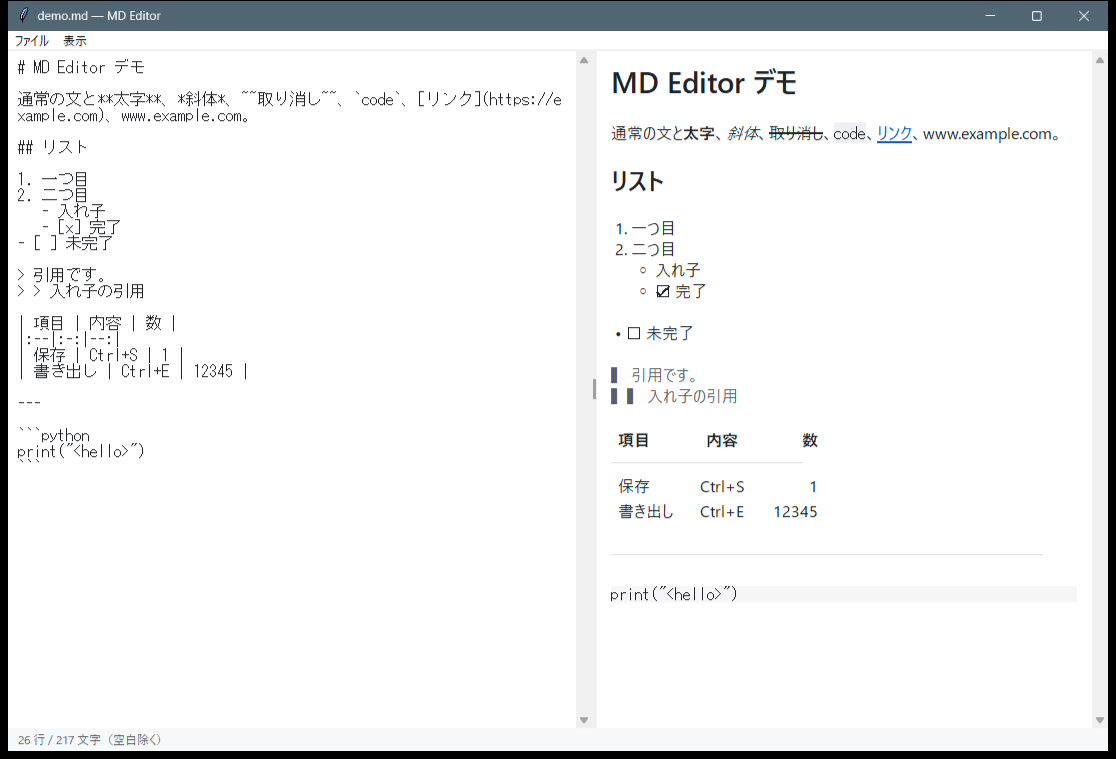
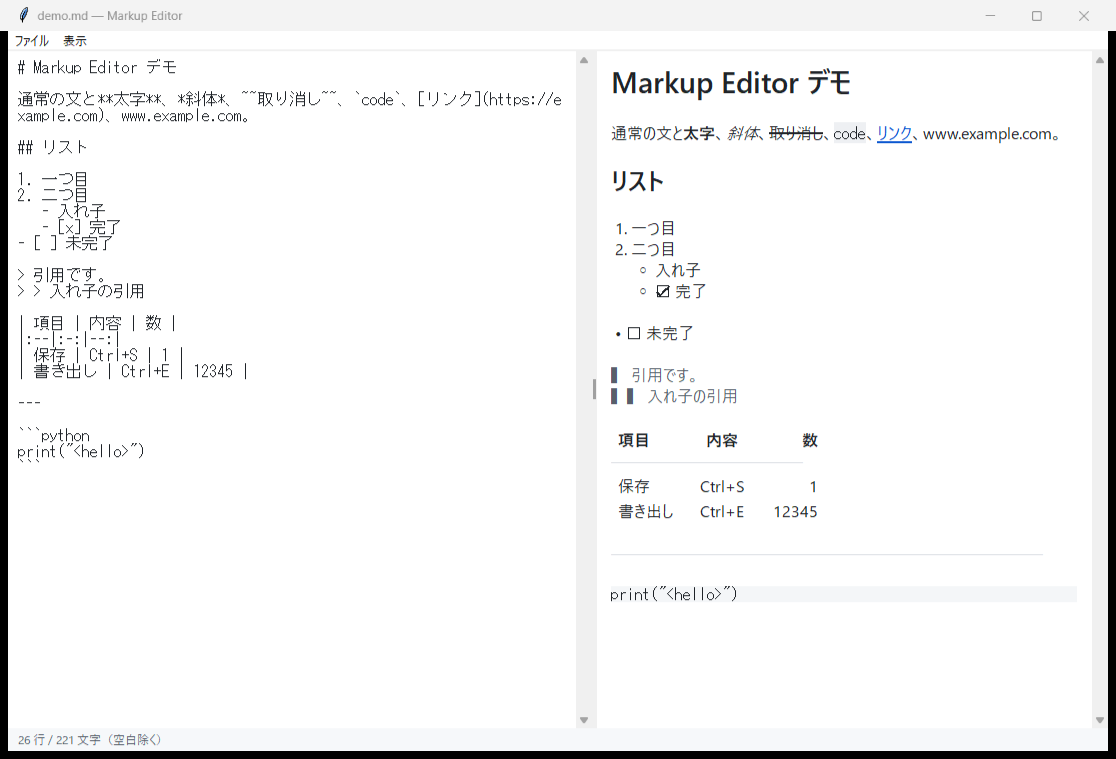
Rename the app to Markup Editor now that it handles Markdown and Org
- md_editor.py -> markup_editor.py; app name "MD Editor" -> "Markup Editor"
- settings move to ~/.markup-editor/; the old ~/.md-editor/state.json is
  read (never written) until the new file exists, so drafts carry over
- retake the README screenshots under the new name and add an Org one
- README / AGENTS.md updated, with a naming policy

Changed region(s): [[0.0, 0.0, 1.0, 0.0909], [0.5484, 0.0909, 0.7616, 0.1515]]

diff --git a/markup_editor.py b/markup_editor.py
@@ -1,12 +1,12 @@
 #!/usr/bin/env python3
-"""MD Editor (Python / tkinter 版)。
+"""Markup Editor (Python / tkinter 版)。
 
 Windows / macOS / Linux で、Python 3.8 以上の標準ライブラリだけで動く
 Markdown / Org エディタ。左で書くと右のプレビューにすぐ反映される。
 ファイル名が .org なら Org として、それ以外は Markdown として解釈する
 （Org は編集だけで、HTML への書き出しは Markdown のみ）。
 
-    python md_editor.py [ファイル.md | ファイル.org]
+    python markup_editor.py [ファイル.md | ファイル.org]
 """
 import json
 import re
@@ -22,8 +22,20 @@ from tkinter import filedialog, messagebox, ttk
 from mdparser import export_html, md_to_html
 from orgparser import org_to_html
 
-APP = "MD Editor"
-SAMPLE = """# MD Editor
+APP = "Markup Editor"
+
+
+def default_state_path():
+    """下書き・テーマなどの保存先。どの OS でも、ホームの下の同じ相対パス。"""
+    return Path.home() / ".markup-editor" / "state.json"
+
+
+def legacy_state_path():
+    """旧名（MD Editor）の保存先。引き継ぎの読み込みだけに使う。"""
+    return Path.home() / ".md-editor" / "state.json"
+
+
+SAMPLE = """# Markup Editor
 
 左で書くと右にすぐ反映されます。
 
@@ -296,8 +308,10 @@ class Renderer(HTMLParser):
 class App:
     def __init__(self, root, path=None, state_path=None):
         self.root = root
-        self.state_path = Path(state_path) if state_path else (
-            Path.home() / ".md-editor" / "state.json")
+        self.state_path = Path(state_path) if state_path else \
+            default_state_path()
+        # 旧名（MD Editor）の保存先。新しい保存先がまだ無いときだけ、読み込みに使う
+        self.legacy_state_path = None if state_path else legacy_state_path()
         self.mod = "Command" if sys.platform == "darwin" else "Control"
         self.mod_label = "⌘" if sys.platform == "darwin" else "Ctrl+"
         self.path = None
@@ -352,8 +366,11 @@ class App:
 
     # --- 状態の保存 -----------------------------------------------
     def read_state(self):
+        path = self.state_path
+        if not path.exists() and self.legacy_state_path:
+            path = self.legacy_state_path  # 書くのは常に新しい保存先
         try:
-            return json.loads(self.state_path.read_text(encoding="utf-8"))
+            return json.loads(path.read_text(encoding="utf-8"))
         except (OSError, ValueError):
             return {}
 

diff --git a/test_gui.py b/test_gui.py
@@ -1,4 +1,4 @@
-"""md_editor.py の GUI テスト。実際に tkinter のウィンドウを開いて確認する。
+"""markup_editor.py の GUI テスト。実際に tkinter のウィンドウを開いて確認する。
 
 画面を開けない環境（DISPLAY のない Linux など）では、全体をスキップする。
 ダイアログは差し替えるので、人の操作は要らない。
@@ -10,7 +10,7 @@ import unittest
 from pathlib import Path
 from unittest import mock
 
-import md_editor as m
+import markup_editor as m
 
 
 def _has_display():
@@ -416,6 +416,34 @@ class GuiTest(unittest.TestCase):
     def test_state_write_failure_is_ignored(self):
         self.app.state_path = self.dir  # ディレクトリには書けない
         self.app.write_state()  # 例外にならないこと
+
+    def test_state_location_and_legacy_migration(self):
+        home = self.dir / "home"
+        old = home / ".md-editor" / "state.json"
+        new = home / ".markup-editor" / "state.json"
+        old.parent.mkdir(parents=True)
+        old.write_text('{"theme": "dark", "size": 14}', encoding="utf-8")
+        with mock.patch.object(m.Path, "home", return_value=home):
+            self.assertEqual(m.default_state_path(), new)
+            for w in self.root.winfo_children():
+                w.destroy()
+            app = m.App(self.root)  # state_path を渡さない = 実際の保存先
+            self.apps.append(app)
+            self.root.update()
+            # 新しい保存先がまだ無いので、旧名の保存先から引き継ぐ
+            self.assertEqual((app.theme, app.size), ("dark", 14))
+            self.assertFalse(new.exists())
+            app.write_state()
+            # 書くのは新しい保存先だけ。旧名のファイルは触らない
+            self.assertTrue(new.exists())
+            self.assertIn('"dark"', old.read_text(encoding="utf-8"))
+            # 新しい保存先ができたら、そちらを優先する
+            new.write_text('{"theme": "light", "size": 10}', encoding="utf-8")
+            for w in self.root.winfo_children():
+                w.destroy()
+            app2 = m.App(self.root)
+            self.apps.append(app2)
+            self.assertEqual((app2.theme, app2.size), ("light", 10))
 
 
 if __name__ == "__main__":

diff --git a/AGENTS.md b/AGENTS.md
@@ -1,6 +1,6 @@
 # AGENTS.md
 
-`md_editor.py`、`mdparser.py`、`orgparser.py` を改修するエージェント向けの指示書。
+`markup_editor.py`、`mdparser.py`、`orgparser.py` を改修するエージェント向けの指示書。
 
 ## 目的
 
@@ -20,15 +20,17 @@ Windows / macOS / Linux のどれでも動く、Markdown と Org の閲覧・編
 |---|---|
 | `mdparser.py` | `md_to_html(src)`、`export_html(title, src)`。Markdown → HTML。`esc()` `safe_url()` `trim_url()` は Org も使う |
 | `orgparser.py` | `org_to_html(src)`。Org → HTML（部分対応）。出す HTML の形は `mdparser.py` に合わせる |
-| `md_editor.py` | tkinter のエディタ本体。`Renderer` が HTML を Text ウィジェットに描き、`App` が UI・ファイル操作・自動保存を持つ。`App.to_html()` が拡張子で Markdown と Org を切り替える |
+| `markup_editor.py` | tkinter のエディタ本体。`Renderer` が HTML を Text ウィジェットに描き、`App` が UI・ファイル操作・自動保存を持つ。`App.to_html()` が拡張子で Markdown と Org を切り替える |
 | `test_mdparser.py` | Markdown パーサーの単体テスト |
 | `test_orgparser.py` | Org パーサーの単体テスト |
 | `test_gui.py` | GUI のテスト（編集、ショートカット、保存、Org の切り替え、描画の堅牢性など） |
 
+- 名前の方針：アプリ名は「Markup Editor」。Markdown と Org の両方（今後増える軽量マークアップ形式も含む）を扱うので、特定の形式の名前は付けない。パーサーのファイルだけは、形式ごとに `mdparser.py`、`orgparser.py` のように付ける。
 - ファイルは UTF-8 だけを扱い、BOM と改行コード（LF / CRLF）は開いたファイルのとおりに保存する。
-- 下書き・テーマ・表示モード・プレビューのフォントは `~/.md-editor/state.json` に保存する。書き込みに失敗しても例外で止めない。
+- 下書き・テーマ・表示モード・プレビューのフォントは `~/.markup-editor/state.json` に保存する（`default_state_path()`）。書き込みに失敗しても例外で止めない。
+- 旧名（MD Editor）の `~/.md-editor/state.json`（`legacy_state_path()`）は、新しい保存先がまだ無いときの読み込みにだけ使う。書き込みはしない。引き継ぎが不要になったら、この処理は削除してよい。
 - プレビューのフォント名は、その PC で使えるものだけを受け付ける。保存された名前がその PC に無ければ無視して標準に戻す（別の PC の設定を引き継いでも壊れない）。
-- パーサーが新しい種類の HTML タグを出すようになったら、`Renderer`（`md_editor.py`）にも描き方を足す。足さないと、中の文字だけが出る。
+- パーサーが新しい種類の HTML タグを出すようになったら、`Renderer`（`markup_editor.py`）にも描き方を足す。足さないと、中の文字だけが出る。
 
 ## 検証手順（変更後に必ず実行）
 
@@ -37,7 +39,7 @@ python -m unittest
 ```
 
 - 全件成功すること。`test_mdparser.py` と `test_orgparser.py` がパーサー、`test_gui.py` が GUI（実際にウィンドウを開く。ダイアログは差し替えるので操作は要らない）。
-- 画面を開けない環境では、`test_gui.py` は自動でスキップされる。その場合は、GUI を変更したら `python md_editor.py` を実際に起動して確認する。
+- 画面を開けない環境では、`test_gui.py` は自動でスキップされる。その場合は、GUI を変更したら `python markup_editor.py` を実際に起動して確認する。
 - パーサーの挙動を変えたら、対応する `test_mdparser.py` か `test_orgparser.py` に、GUI の挙動を変えたら `test_gui.py` にケースを足す。
 - 正規表現を足したり変えたりしたら、「閉じていない記号を大量に並べた入力」で処理時間が二乗に増えないことを確かめる（`Limits` のテストに足す）。
 - 見た目（配色、表の列、余白など）はテストで確かめられない。変えたら起動して目で見る。

diff --git a/README.md b/README.md
@@ -1,19 +1,23 @@
-# MD Editor
+# Markup Editor
 
 Python の標準ライブラリ（tkinter）だけで動く、Markdown / Org エディタ。Windows / macOS / Linux で使える。
 左で書くと、右のプレビューにすぐ反映される。
 
 ```
-python md_editor.py [ファイル.md | ファイル.org]
+python markup_editor.py [ファイル.md | ファイル.org]
 ```
 
 ## 画面
 
 左のエディタで書くと、右のプレビューにすぐ反映される。見出し・強調・リスト・引用・表・コードブロックを描き分ける。
 
-| ライト | ダーク |
+| ライト（Markdown） | ダーク（Markdown） |
 |---|---|
 | ![ライトテーマ](docs/screenshot-light.png) | ![ダークテーマ](docs/screenshot-dark.png) |
+
+Org ファイル（`.org`）も、同じ画面で編集できる。
+
+![Org ファイルの表示](docs/screenshot-org.png)
 
 ## 要件
 
@@ -32,7 +36,7 @@ python md_editor.py [ファイル.md | ファイル.org]
 
 - 表示メニューで、分割 / エディタのみ / プレビューのみ、ライト / ダークを切り替える。
 - 表示メニューの「プレビューのフォント…」で、プレビュー本文のフォントを選べる（名前で絞り込み、選ぶとすぐ反映、「標準に戻す」あり）。コードは等幅のまま変わらない。
-- 下書き・テーマ・表示モード・フォントは `~/.md-editor/state.json` に保存される。
+- 下書き・テーマ・表示モード・フォントは `~/.markup-editor/state.json` に保存される。旧名（MD Editor）の `~/.md-editor/state.json` が残っていて、新しい保存先がまだ無いときは、そこから引き継ぐ（旧ファイルは変更しない）。
 - ファイルは UTF-8 だけを扱う。BOM と改行コード（LF / CRLF）は、開いたファイルのとおりに保存する。
 
 ## Markdown と Org
